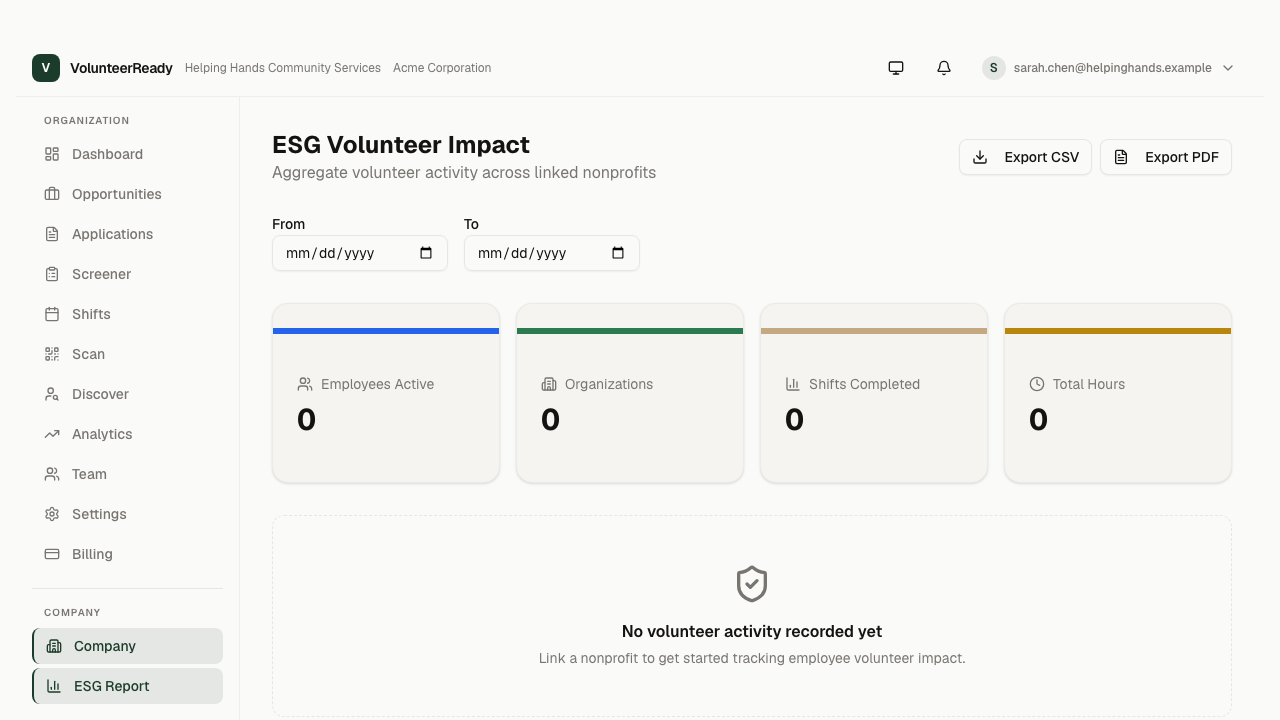
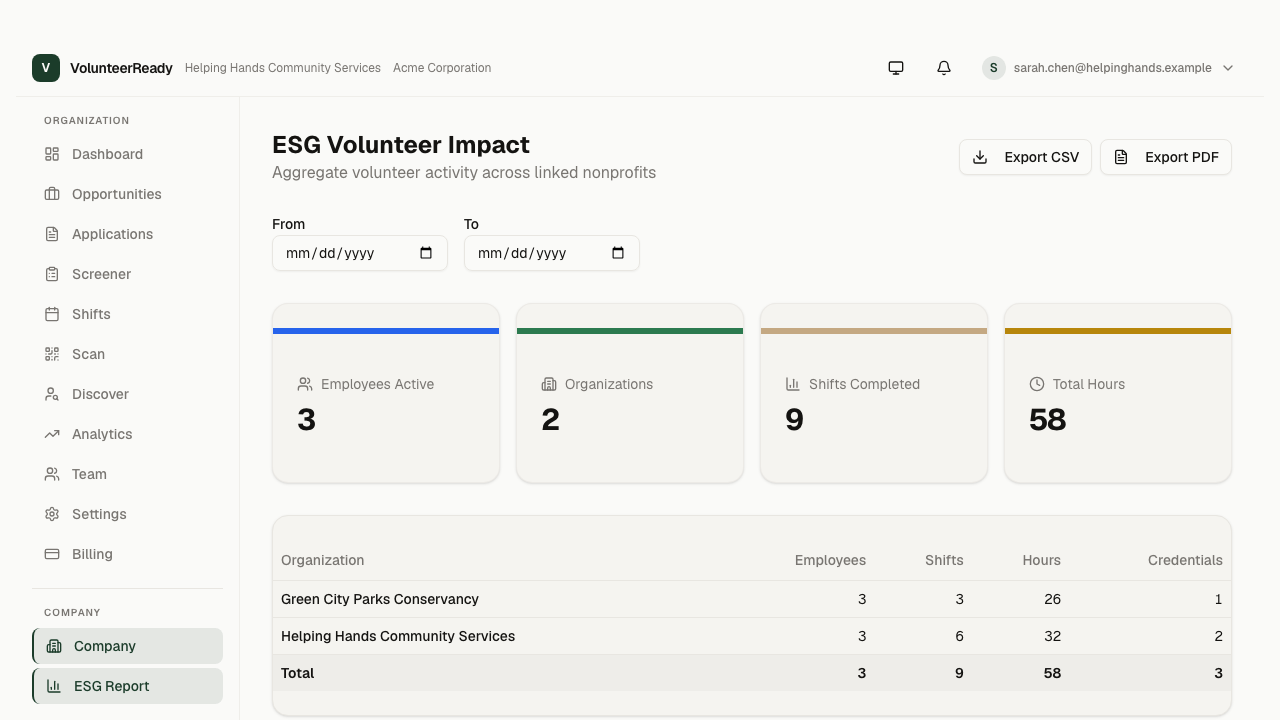
chore: seed ESG demo activity; recapture marketing screenshot with data
Fixed-timestamp past shifts + ATTENDED signups for Acme members (fixed
dates keep createShiftIfNotExists idempotent across seed re-runs), plus
verified credentials for the Credentials column. esg.png recaptured at
1280x720 as the Sarah Chen persona with real aggregates, replacing the
zero-state shipped in v0.26.3.0.

diff --git a/prisma/seed-dev.ts b/prisma/seed-dev.ts
@@ -1693,6 +1693,88 @@ async function seedDev() {
 			/* ignore duplicate */
 		});
 
+	// ESG demo activity: past ATTENDED shifts for Acme employees at linked
+	// nonprofits so the ESG dashboard (and marketing screenshot) shows real
+	// aggregates instead of the zero-state.
+	// Fixed timestamps, NOT daysAgo(): createShiftIfNotExists matches on
+	// (orgId, title, startTime), so per-run NOW arithmetic would create
+	// duplicate shifts and inflate the aggregates on every seed re-run.
+	console.log('📊 Creating ESG demo activity (Acme Corp)...');
+
+	const esgFoodBankDay = await createShiftIfNotExists({
+		orgId: helpingHands.id,
+		title: 'Corporate Volunteer Day — Food Bank',
+		location: '1200 Main St, Portland, OR 97201',
+		startTime: new Date('2026-06-12T16:00:00Z'),
+		endTime: new Date('2026-06-12T20:00:00Z'), // 4h
+		capacity: 20,
+		status: 'COMPLETED',
+	});
+	const esgMealPrep = await createShiftIfNotExists({
+		orgId: helpingHands.id,
+		title: 'Weekend Meal Prep — Team Acme',
+		location: '1200 Main St, Portland, OR 97201',
+		startTime: new Date('2026-06-28T17:00:00Z'),
+		endTime: new Date('2026-06-28T20:00:00Z'), // 3h
+		capacity: 10,
+		status: 'COMPLETED',
+	});
+	const esgTrailDay = await createShiftIfNotExists({
+		orgId: greenCity.id,
+		title: 'Company Trail Restoration Day',
+		location: 'Forest Park Trailhead #3',
+		startTime: new Date('2026-06-21T15:00:00Z'),
+		endTime: new Date('2026-06-21T20:00:00Z'), // 5h
+		capacity: 15,
+		status: 'COMPLETED',
+	});
+	const esgParkCleanup = await createShiftIfNotExists({
+		orgId: greenCity.id,
+		title: 'Earth Day Park Cleanup',
+		location: 'Forest Park',
+		startTime: new Date('2026-05-28T16:00:00Z'),
+		endTime: new Date('2026-05-28T20:00:00Z'), // 4h
+		capacity: 25,
+		status: 'COMPLETED',
+	});
+
+	await createSignupIfNotExists(
+		esgFoodBankDay.id,
+		testCompanyAdmin.id,
+		'ATTENDED',
+	);
+	await createSignupIfNotExists(esgFoodBankDay.id, sarah.id, 'ATTENDED');
+	await createSignupIfNotExists(esgFoodBankDay.id, marcus.id, 'ATTENDED');
+	await createSignupIfNotExists(esgMealPrep.id, sarah.id, 'ATTENDED');
+	await createSignupIfNotExists(esgMealPrep.id, marcus.id, 'ATTENDED');
+	await createSignupIfNotExists(esgTrailDay.id, sarah.id, 'ATTENDED');
+	await createSignupIfNotExists(
+		esgTrailDay.id,
+		testCompanyAdmin.id,
+		'ATTENDED',
+	);
+	await createSignupIfNotExists(esgParkCleanup.id, marcus.id, 'ATTENDED');
+
+	// Verified credentials so the Credentials column has data
+	await upsertCredential(
+		sarah.id,
+		helpingHands.id,
+		'BACKGROUND_CHECK',
+		'VERIFIED',
+	);
+	await upsertCredential(
+		marcus.id,
+		helpingHands.id,
+		'BACKGROUND_CHECK',
+		'VERIFIED',
+	);
+	await upsertCredential(
+		sarah.id,
+		greenCity.id,
+		'ORIENTATION_COMPLETE',
+		'VERIFIED',
+	);
+
 	// =========================================================================
 	// Done!
 	// =========================================================================
